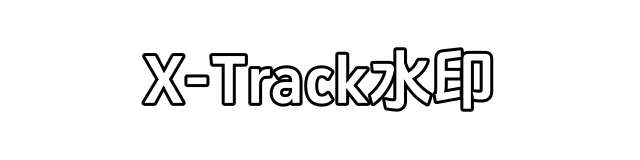
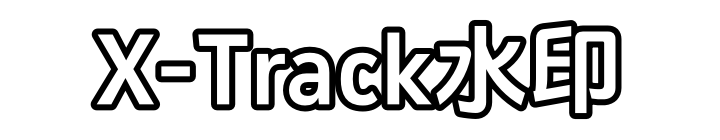
Make batch image watermarks readable at default scale.
Scale marks by short-side glyph height, tighten the default PNG outline, and keep video/still validation so tiny or invisible outputs are no longer mistaken for success.

Changed region(s): [[0.125, 0.1429, 0.875, 0.8571]]

diff --git a/xtrack/batch_watermark.py b/xtrack/batch_watermark.py
@@ -206,7 +206,7 @@ def _dims(kind: str) -> Tuple[str, str, str, str]:
 
 
 def _pad_expr(kind: str, pad_percent: float) -> str:
-    """Margin = watermark width × ratio. No commas (filtergraph-safe)."""
+    """Margin = watermark width × ratio."""
     _, _, mw, _ = _dims(kind)
     pct = max(0.0, min(200.0, float(pad_percent))) / 100.0
     return f"({mw}*{pct:.4f})"
@@ -216,12 +216,13 @@ def _fixed_xy(kind: str, position: str, pad_percent: float = 20.0) -> Tuple[str,
     fw, fh, mw, mh = _dims(kind)
     pad = _pad_expr(kind, pad_percent)
     position = position if position in _POSITIONS else "bottom-right"
+    # max(0, …) keeps oversized watermarks from going fully off-screen
     table = {
         "top-left": (pad, pad),
-        "top-right": (f"({fw}-{mw}-{pad})", pad),
-        "bottom-left": (pad, f"({fh}-{mh}-{pad})"),
-        "bottom-right": (f"({fw}-{mw}-{pad})", f"({fh}-{mh}-{pad})"),
-        "center": (f"(({fw}-{mw})/2)", f"(({fh}-{mh})/2)"),
+        "top-right": (f"max(0,{fw}-{mw}-{pad})", pad),
+        "bottom-left": (pad, f"max(0,{fh}-{mh}-{pad})"),
+        "bottom-right": (f"max(0,{fw}-{mw}-{pad})", f"max(0,{fh}-{mh}-{pad})"),
+        "center": (f"max(0,({fw}-{mw})/2)", f"max(0,({fh}-{mh})/2)"),
     }
     return table[position]
 
@@ -234,8 +235,8 @@ def _corner_xy_expr(kind: str, pad_percent: float, refresh: float) -> Tuple[str,
     span = step * 4
     # 0=TL 1=TR 2=BR 3=BL — right when idx in {1,2}, bottom when idx in {2,3}
     idx = f"floor(mod(t,{span:.3f})/{step:.3f})"
-    span_x = f"({fw}-{mw}-2*{pad})"
-    span_y = f"({fh}-{mh}-2*{pad})"
+    span_x = f"max(0,{fw}-{mw}-2*{pad})"
+    span_y = f"max(0,{fh}-{mh}-2*{pad})"
     x = f"{pad}+{span_x}*between({idx},1,2)"
     y = f"{pad}+{span_y}*between({idx},2,3)"
     return _esc(x), _esc(y)
@@ -244,11 +245,11 @@ def _corner_xy_expr(kind: str, pad_percent: float, refresh: float) -> Tuple[str,
 def _random_xy(kind: str, job: BatchJob, path: str, is_video: bool) -> Tuple[str, str]:
     fw, fh, mw, mh = _dims(kind)
     pad = _pad_expr(kind, job.pad_percent)
-    span_x = f"({fw}-{mw}-2*{pad})"
-    span_y = f"({fh}-{mh}-2*{pad})"
+    span_x = f"max(0,{fw}-{mw}-2*{pad})"
+    span_y = f"max(0,{fh}-{mh}-2*{pad})"
     if is_video:
         step = max(0.5, float(job.refresh_sec))
-        # no commas in these expressions
+        # no commas in these expressions except inside max() — escaped via quotes at use site
         x = f"{pad}+{span_x}*random(floor(t/{step:.3f})*2)"
         y = f"{pad}+{span_y}*random(floor(t/{step:.3f})*2+1)"
     else:
@@ -305,8 +306,9 @@ def _drawtext_one(
 
 def _text_filter(job: BatchJob, path: str, is_video: bool, font: str) -> str:
     ratio = max(1, min(50, int(job.scale_percent)))
-    # Font size = frame width * ratio%
-    fontsize = _esc(f"max(16,w*{ratio}/100)")
+    # Font size ≈ short-side * ratio% (same visual share as image watermarks).
+    # Pass raw commas into _esc once — do not pre-escape.
+    fontsize = _esc(f"max(16,min(w,h)*{ratio}/100)")
     alpha = _alpha_expr(job, is_video)
 
     if job.placement == "corners" and is_video:
@@ -345,26 +347,28 @@ def _geq_fade(job: BatchJob) -> str:
     )
 
 
-def _image_filter(job: BatchJob, path: str, is_video: bool, looped: bool) -> str:
+def _image_filter(job: BatchJob, path: str, is_video: bool, fade_tone: bool) -> str:
     ratio = max(1, min(50, int(job.scale_percent)))
-    # Watermark width = frame (reference) width * ratio%.
-    # Use iw — scale2ref's reference width. `rw` is missing on some Windows builds.
-    size = _esc(f"iw*{ratio}/100")
+    # Match text-mode semantics: scale% ≈ glyph height on the short side.
+    # Width = height * mdar; cap so the mark never exceeds the frame.
+    # ffmpeg min() is binary only — nest pairwise.
+    # (Old iw*R/100 made wide logos ~20px tall at 8% — easy to miss on video.)
+    size_w = f"min(iw,min(ih*mdar,min(iw,ih)*{ratio}/100*mdar))"
     opacity = max(0.02, min(1.0, float(job.opacity)))
     fade = max(0.0, float(job.fade_sec))
     # Fade needs a timed watermark stream (looped still). Otherwise keep static alpha.
-    if is_video and fade >= 0.05 and looped:
+    if is_video and fade >= 0.05 and fade_tone:
         tone = _geq_fade(job)
     else:
         tone = "" if opacity >= 0.999 else f",colorchannelmixer=aa={opacity:.3f}"
 
     head = (
-        f"[1:v][0:v]scale2ref=w='{size}':h='-1':flags=lanczos[wm][base];"
-        f"[wm]setsar=1,format=rgba{tone}"
+        f"[1:v][0:v]scale2ref=w='{size_w}':h='ow/mdar':flags=lanczos[wm][base];"
+        f"[wm]format=rgba{tone}"
     )
     # Never use overlay shortest=1: without a reliable loop it truncates the
     # whole video to one still frame (~tens of KB) while ffmpeg still exits 0.
-    # Looped fades are capped with -t <source duration> in _command instead.
+    # Looped stills are capped with -t <source duration> in _command instead.
     end_flags = "eof_action=repeat"
 
     if job.placement == "corners" and is_video:
@@ -450,6 +454,17 @@ def _probe_duration(ffmpeg: str, path: str) -> float:
     return int(hours) * 3600 + int(minutes) * 60 + float(seconds)
 
 
+def _file_digest(path: str) -> str:
+    digest = hashlib.md5()
+    try:
+        with open(path, "rb") as handle:
+            for chunk in iter(lambda: handle.read(1 << 20), b""):
+                digest.update(chunk)
+    except OSError:
+        return ""
+    return digest.hexdigest()
+
+
 def _video_output_ok(src: str, dest: str, src_dur: float, ffmpeg: str) -> bool:
     """Reject truncated encodes that ffmpeg still reports as success (~tens of KB)."""
     if not os.path.isfile(dest):
@@ -461,14 +476,33 @@ def _video_output_ok(src: str, dest: str, src_dur: float, ffmpeg: str) -> bool:
         return False
     if dest_sz < 2048:
         return False
-    # Real clips collapsing to tens of KB
-    if src_sz >= 200_000 and dest_sz < max(80_000, int(src_sz * 0.02)):
-        return False
+    # Duration is the reliable signal; size alone false-positives on NVENC of easy content.
     if src_dur >= 1.0:
         dest_dur = _probe_duration(ffmpeg, dest)
-        if dest_dur > 0 and dest_dur < max(0.4, src_dur * 0.5):
+        if dest_dur <= 0:
+            return dest_sz >= max(80_000, int(src_sz * 0.02)) if src_sz >= 200_000 else True
+        if dest_dur < max(0.4, src_dur * 0.85):
             return False
+        return True
+    if src_sz >= 200_000 and dest_sz < max(80_000, int(src_sz * 0.02)):
+        return False
     return True
+
+
+def _still_output_ok(src: str, dest: str) -> bool:
+    """Stills only check size would accept untouched copies; require a real rewrite."""
+    if not os.path.isfile(dest):
+        return False
+    try:
+        if os.path.getsize(dest) < 32:
+            return False
+    except OSError:
+        return False
+    src_hash = _file_digest(src)
+    dest_hash = _file_digest(dest)
+    if not src_hash or not dest_hash:
+        return True
+    return src_hash != dest_hash
 
 
 def _run_ffmpeg(cmd: List[str], cancel: threading.Event, timeout_sec: float = 0) -> Tuple[str, str]:
@@ -661,8 +695,14 @@ class BatchWatermarker:
                         os.remove(dest)
                     except OSError:
                         pass
-                elif os.path.getsize(dest) > 32:
+                elif _still_output_ok(src, dest):
                     return "ok", ""
+                else:
+                    detail = detail or "output unchanged"
+                    try:
+                        os.remove(dest)
+                    except OSError:
+                        pass
             last = detail or last
         return "fail", last
 
@@ -701,18 +741,19 @@ class BatchWatermarker:
             return cmd
 
         fade = max(0.0, float(job.fade_sec))
-        # Loop the still only for timed fade in fixed mode. Cap length with -t
-        # so an infinite loop cannot hang and we never need overlay shortest=.
-        looped = is_video and fade >= 0.05 and job.placement == "fixed"
+        # Loop still only when we can cap with -t. Global -shortest is unsafe:
+        # a shorter audio track would truncate the video.
+        fade_tone = is_video and fade >= 0.05 and job.placement == "fixed"
+        loop_still = is_video and src_dur > 0
         cmd.extend(["-i", src])
-        if looped:
+        if loop_still:
             cmd.extend(["-framerate", "15", "-loop", "1"])
         cmd.extend(
             [
                 "-i",
                 job.image_path,
                 "-filter_complex",
-                _image_filter(job, src, is_video, looped),
+                _image_filter(job, src, is_video, fade_tone),
                 "-map",
                 "[vout]",
             ]
@@ -722,9 +763,6 @@ class BatchWatermarker:
             cmd.extend(_video_encode(ext, use_gpu, accel, audio))
             if src_dur > 0:
                 cmd.extend(["-t", f"{src_dur:.3f}"])
-            elif looped:
-                # Duration unknown: keep a finite bound so looped still cannot hang.
-                cmd.extend(["-shortest"])
         else:
             cmd.extend(_image_encode(ext))
             cmd.extend(["-frames:v", "1"])

diff --git a/xtrack/watermark.py b/xtrack/watermark.py
@@ -97,10 +97,12 @@ def ensure_default_watermark_png(text: str = DEFAULT_WATERMARK_TEXT, *, force: b
     ffmpeg = DependencyInstaller.find_ffmpeg_path() or "ffmpeg"
     escaped_text = _escape_drawtext(text)
     font_esc = _escape_fontfile(font)
-    # Transparent canvas + white text + black outline; SAR=1 avoids later squash
+    # Transparent canvas + white text + thick black outline (survives downscale).
+    # Canvas is tight around the glyphs so batch scale% ≈ visible text height
+    # (a tall empty plate made 8% marks look ~2–3× smaller than intended).
     vf = (
         f"drawtext=fontfile='{font_esc}':text='{escaped_text}':"
-        f"fontsize=64:fontcolor=white:borderw=3:bordercolor=black:"
+        f"fontsize=96:fontcolor=white:borderw=6:bordercolor=black:"
         f"x=(w-tw)/2:y=(h-th)/2,setsar=1,format=rgba"
     )
     cmd = [
@@ -112,7 +114,7 @@ def ensure_default_watermark_png(text: str = DEFAULT_WATERMARK_TEXT, *, force: b
         "-f",
         "lavfi",
         "-i",
-        "color=c=black@0.0:s=640x160,format=rgba",
+        "color=c=black@0.0:s=720x140,format=rgba",
         "-vf",
         vf,
         "-frames:v",
@@ -424,6 +426,13 @@ class WatermarkProcessor:
             if wm_w > 0 and wm_h > 0:
                 aspect = wm_w / float(wm_h)
                 target_h = max(1, int(round(target_w / aspect)))
+                # Keep watermark inside the frame (preserve aspect).
+                if target_h > main_h:
+                    target_h = main_h
+                    target_w = max(8, int(round(target_h * aspect)))
+                if target_w > main_w:
+                    target_w = main_w
+                    target_h = max(1, int(round(target_w / aspect)))
                 scale = (
                     f"scale={target_w}:{target_h}:flags=lanczos:"
                     f"force_original_aspect_ratio=disable"
@@ -436,15 +445,15 @@ class WatermarkProcessor:
             )
 
         # Fallback when probe failed: width relative to reference frame via scale2ref.
-        # Use iw (reference width); `rw` is undefined on some Windows ffmpeg builds.
+        # Keep watermark aspect (ow/mdar) and fit inside the frame (min with ih*mdar).
         overlay = self.get_position_overlay_expr(position)
         if adaptive:
-            size_expr = f"min(iw\\,ih)*{ratio}/100"
+            size_expr = f"min(min(iw\\,ih)*{ratio}/100\\,ih*mdar)"
         else:
-            size_expr = f"iw*{ratio}/100"
+            size_expr = f"min(iw*{ratio}/100\\,ih*mdar)"
         return (
-            f"[1:v][0:v]scale2ref=w='{size_expr}':h=-1:flags=lanczos[wm][base];"
-            f"[wm]setsar=1,format=rgba[wm2];"
+            f"[1:v][0:v]scale2ref=w='{size_expr}':h='ow/mdar':flags=lanczos[wm][base];"
+            f"[wm]format=rgba[wm2];"
             f"[base][wm2]overlay={overlay}"
         )
 

diff --git a/xtrack/i18n.py b/xtrack/i18n.py
@@ -281,12 +281,12 @@ TRANSLATIONS: Dict[str, Dict[str, str]] = {
         "wmtool_scale": "Size",
         "wmtool_pad": "Margin",
         "wmtool_pad_tip": "Distance from the frame edge as a percent of the watermark's own width (0 = flush).",
-        "wmtool_scale_tip": "Watermark size as % of the frame width. Text uses that percent as font height; images use it as watermark width.",
+        "wmtool_scale_tip": "Watermark size as % of the frame's shorter side. Text and image marks both use it as glyph height (image width follows aspect).",
         "wmtool_opacity": "Opacity",
         "wmtool_fade": "Fade",
         "wmtool_suffix_sec": " s",
         "wmtool_fade_tip": "Fade out before each move, then fade in. 0 is a hard cut. Videos only. Image watermarks in four-corner / random mode keep a steady opacity (fade applies to fixed position).",
-        "wmtool_hint": "Size follows the frame width. Text height and image width both use that percent. Fade and timed moves apply to video; still images keep opacity and one position.",
+        "wmtool_hint": "Size follows the shorter side so landscape and portrait look alike. Fade and timed moves apply to video; still images keep opacity and one position.",
         "wmtool_place": "Placement",
         "wmtool_fixed": "Fixed",
         "wmtool_corners": "Four corners",
@@ -610,12 +610,12 @@ TRANSLATIONS: Dict[str, Dict[str, str]] = {
         "wmtool_scale": "画面占比",
         "wmtool_pad": "边距",
         "wmtool_pad_tip": "水印到画面边缘的距离，按水印自身宽度的百分比计算（0 = 贴边）。",
-        "wmtool_scale_tip": "水印大小 = 画面宽度的百分比。文字按该比例作为字号高度，图片按该比例作为水印宽度。",
+        "wmtool_scale_tip": "水印大小 = 画面短边的百分比。文字与图片水印都按该比例作为字形高度（图片宽度跟宽高比走）。",
         "wmtool_opacity": "不透明度",
         "wmtool_fade": "渐隐时长",
         "wmtool_suffix_sec": " 秒",
         "wmtool_fade_tip": "每次换位置前淡出、换过去再淡入。0 表示硬切。仅视频。图片水印在四角/随机模式下使用恒定透明度（渐隐仅固定位置生效）。",
-        "wmtool_hint": "大小按画面宽度计算：文字字号、图片宽度都用这个百分比。渐隐和定时换位只对视频生效；图片使用不透明度，并只落在一个位置。",
+        "wmtool_hint": "大小按画面短边计算，横竖屏观感一致。渐隐和定时换位只对视频生效；图片使用不透明度，并只落在一个位置。",
         "wmtool_place": "出现方式",
         "wmtool_fixed": "固定位置",
         "wmtool_corners": "四角轮流",
